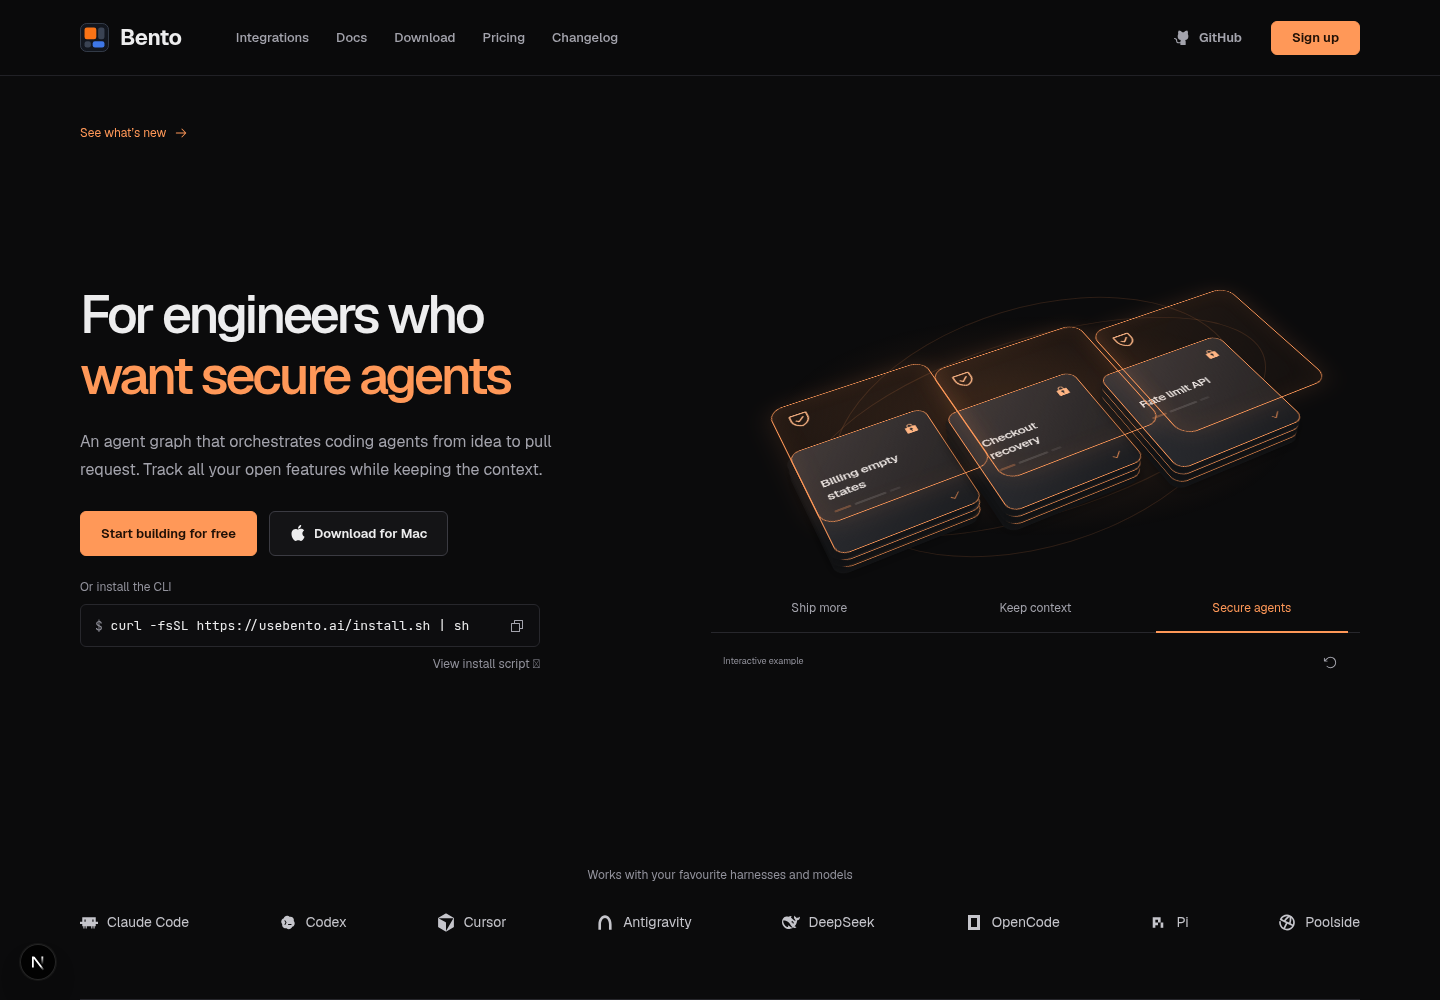
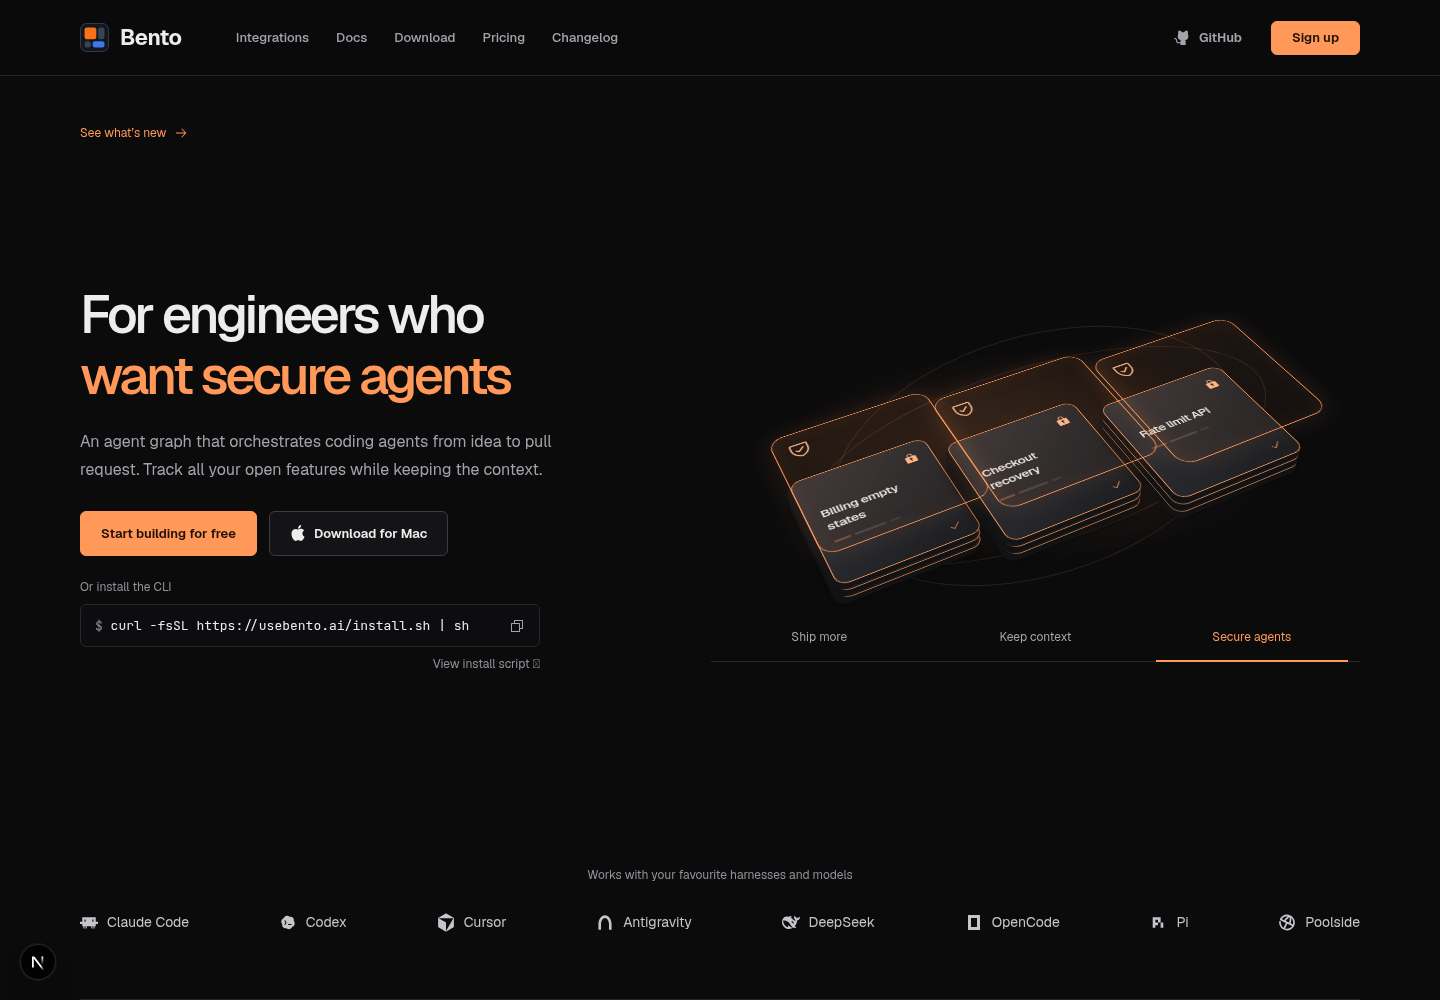
Isolate the context card and remove hero footer controls

diff --git a/app/marketing.css b/app/marketing.css
@@ -817,10 +817,9 @@ body:has(.marketing-page) {
 .pipeline-stop-2 { transform: translate3d(167px, 64px, -40px); }
 .pipeline-stop span { position: absolute; bottom: -27px; left: 0; width: 100%; text-align: center; font: 11px var(--font-jetbrains-mono), monospace; color: var(--brand); }
 .pipeline-stop:not(:last-child)::after { content: "→"; position: absolute; left: calc(100% + 1px); top: 58%; color: var(--brand); font-size: 18px; }
-.hero-story-demo:not([data-chapter="2"]) .feature-cluster-0, .hero-story-demo:not([data-chapter="2"]) .feature-cluster-2 { opacity: 0; pointer-events: none; }
 .hero-story-demo[data-chapter="0"] .feature-cluster-1 { transform: translate3d(167px, 64px, 12px); }
 /* Context: artifacts originate from a single card and fan out beside it. */
-.hero-story-demo[data-chapter="1"] .feature-cluster-1 { transform: translate3d(-115px, 0, 25px); }
+.hero-story-demo[data-chapter="1"] .feature-cluster-1 { transform: translate3d(-115px, 0, 25px); transition: none; }
 .feature-artifacts { transform-style: preserve-3d; opacity: 0; transition: opacity 500ms; }
 .hero-story-demo[data-chapter="1"] .feature-artifacts { opacity: 1; }
 .feature-artifact { position: absolute; left: -62px; top: -43px; width: 124px; height: 86px; padding: 13px; border: 1px solid #896044; border-radius: 8px; background: linear-gradient(135deg, #35302a, #222126); color: #ededee; box-shadow: -2px 3px 0 #141416, -4px 6px 0 #141416, -8px 12px 20px #0003; transform-style: preserve-3d; }
@@ -841,7 +840,7 @@ body:has(.marketing-page) {
 .hero-story-demo[data-chapter="2"] .feature-lock { display: block; }
 @media (prefers-reduced-motion: no-preference) {
   .hero-story-demo[data-chapter="0"] .feature-cluster-1 { animation: feature-ship 6s cubic-bezier(.45,0,.2,1) infinite; }
-  .hero-story-demo[data-chapter="1"] .feature-artifact { animation: artifact-spawn 6s cubic-bezier(.22,1,.36,1) infinite both; }
+  .hero-story-demo[data-chapter="1"] .feature-artifact { animation: artifact-spawn 1.4s cubic-bezier(.22,1,.36,1) both; }
   .hero-story-demo[data-chapter="1"] .feature-artifact-0 { --artifact-x: 108px; --artifact-y: -105px; }
   .hero-story-demo[data-chapter="1"] .feature-artifact-1 { --artifact-x: 125px; --artifact-y: 0px; animation-delay: .35s; }
   .hero-story-demo[data-chapter="1"] .feature-artifact-2 { --artifact-x: 142px; --artifact-y: 105px; animation-delay: .7s; }
@@ -857,8 +856,7 @@ body:has(.marketing-page) {
   }
   @keyframes artifact-spawn {
     0%, 8% { transform: translate3d(-115px, 0, 30px) scale(.5); opacity: 0; }
-    35%, 88% { transform: translate3d(var(--artifact-x), var(--artifact-y), 40px); opacity: 1; }
-    100% { transform: translate3d(var(--artifact-x), var(--artifact-y), 50px); opacity: 0; }
+    100% { transform: translate3d(var(--artifact-x), var(--artifact-y), 40px); opacity: 1; }
   }
   @keyframes feature-secure {
     0%, 10% { transform: translateZ(70px); opacity: 0; }
@@ -872,8 +870,6 @@ body:has(.marketing-page) {
 .story-chapters button { position: relative; display: flex; align-items: center; justify-content: center; gap: 8px; padding: 15px 4px; color: var(--text-muted); background: none; border: 0; font: inherit; cursor: pointer; }
 .story-chapters button[aria-pressed="true"] { color: var(--brand); }
 .story-chapters button[aria-pressed="true"]::after { content: ""; position: absolute; height: 2px; bottom: -1px; left: 12px; right: 12px; background: var(--brand); }
-.story-footer { display: flex; align-items: center; justify-content: space-between; gap: 10px; padding: 12px; color: var(--text-faint); font-size: 9px; }
-.story-footer button { display: flex; align-items: center; gap: 6px; padding: 10px; color: var(--text-muted); background: none; border: 0; font: inherit; cursor: pointer; }
 .hero-story-demo button:focus-visible { outline: 2px solid var(--brand); outline-offset: 3px; }
 @media (max-width: 1100px) and (min-width: 801px), (max-width: 520px) {
   .feature-world { transform: scale(.73) rotateX(46deg) rotateZ(-28deg); }

diff --git a/e2e/marketing.spec.ts b/e2e/marketing.spec.ts
@@ -233,27 +233,25 @@ for (const width of [375, 1440]) {
   test(`hero cycles without moving the CTAs at ${width}px`, async ({ page }) => {
     await page.setViewportSize({ width, height: 1000 });
     await page.emulateMedia({ reducedMotion: "no-preference" });
-    await page.clock.install();
+    test.setTimeout(45000);
     await page.goto("/");
-    await page.getByRole("button", { name: /Keep context/ }).click();
-    await page.getByRole("button", { name: "Replay story" }).click();
     const active = page.locator('.hero-ending[data-active="true"]');
     await expect(active).toHaveText("ship a lot of PRs");
+    await page.evaluate(() => document.fonts.ready);
     const cta = await page.locator(".hero-actions").boundingBox();
     for (const phrase of ["want context on changes", "want secure agents", "ship a lot of PRs"]) {
-      await page.clock.fastForward(6000);
-      await expect(active).toHaveText(phrase);
+      await expect(active).toHaveText(phrase, { timeout: 10000 });
       await expect(page.locator('.story-scene[data-active="true"]')).toHaveAttribute("aria-label", phrase.includes("context") ? "Keep context" : phrase.includes("secure") ? "Secure agents" : "Ship more");
       expect((await page.locator(".hero-actions").boundingBox())!.y).toBe(cta!.y);
       expect(await page.evaluate(() => document.documentElement.scrollWidth <= innerWidth)).toBe(true);
     }
     await page.emulateMedia({ reducedMotion: "reduce" });
-    await page.clock.fastForward(8000);
+    await page.waitForTimeout(6500);
     await expect(active).toHaveText("ship a lot of PRs");
   });
 }
 
-test("hero story can be selected and replayed", async ({ page }) => {
+test("hero scenes can be selected and held", async ({ page }) => {
   await page.emulateMedia({ reducedMotion: "no-preference" });
   await page.clock.install();
   await page.goto("/");
@@ -263,10 +261,12 @@ test("hero story can be selected and replayed", async ({ page }) => {
   await expect(page.locator(".hero-story-demo")).toHaveAttribute("data-chapter", "1");
   await page.getByRole("button", { name: "Secure agents", exact: true }).click();
   await expect(page.locator(".hero-story-demo")).toHaveAttribute("data-chapter", "2");
-  await page.getByRole("button", { name: "Replay story" }).click();
+  await page.getByRole("button", { name: "Ship more", exact: true }).click();
   await expect(page.locator('.hero-ending[data-active="true"]')).toHaveText("ship a lot of PRs");
-  await page.clock.fastForward(6000);
-  await expect(page.locator(".hero-story-demo")).toHaveAttribute("data-chapter", "1");
+  await page.clock.fastForward(18000);
+  await expect(page.locator(".hero-story-demo")).toHaveAttribute("data-chapter", "0");
+  await expect(page.getByRole("button", { name: "Replay story" })).toHaveCount(0);
+  await expect(page.getByText("Interactive example", { exact: true })).toHaveCount(0);
 });
 
 test("reduced motion keeps the story still and supports keyboard exploration", async ({ page }) => {
@@ -305,6 +305,10 @@ test("3D scenes move a feature, spawn artifacts, and secure every card", async (
   expect(await xAt(4800)).toBeGreaterThan(await xAt(300));
 
   await page.getByRole("button", { name: "Keep context", exact: true }).click();
+  await expect(page.locator(".feature-cluster")).toHaveCount(1);
+  await expect(page.locator(".feature-cluster .feature-slab")).toHaveCount(1);
+  await expect(page.locator(".feature-pipeline")).toHaveCount(0);
+  await expect(movingCard).toHaveCSS("animation-name", "none");
   const artifacts = page.locator(".feature-artifact");
   await expect(artifacts).toHaveCount(3);
   const destinations = await artifacts.evaluateAll(elements => elements.map(element => {

diff --git a/components/marketing/hero-story-demo.tsx b/components/marketing/hero-story-demo.tsx
@@ -1,30 +1,30 @@
 "use client";
 
-import { ArrowCounterClockwise, Check, FileText, GitBranch, LockKey, ShieldCheck } from "@phosphor-icons/react";
+import { Check, FileText, GitBranch, LockKey, ShieldCheck } from "@phosphor-icons/react";
 import { useHeroStory } from "./hero-story";
 
 const chapters = ["Ship more", "Keep context", "Secure agents"];
 const features = ["Billing empty states", "Checkout recovery", "Rate limit API"];
 
 export function HeroStoryDemo() {
-  const { active, select, replay } = useHeroStory();
+  const { active, select } = useHeroStory();
   return <div className="m-demo hero-visual hero-story-demo" id="product" data-chapter={active}>
 
     <div className="feature-stage" aria-hidden="true">
       <div className="feature-orbit" />
-      <div className="feature-world">
-        <div className="feature-pipeline">
+      <div className="feature-world" key={active}>
+        {active === 0 && <div className="feature-pipeline">
           {["Plan", "Build", "PR"].map((stage, index) => <div className={`pipeline-stop pipeline-stop-${index}`} key={stage}><span>{stage}</span></div>)}
-        </div>
-        {features.map((feature, index) => <div className={`feature-cluster feature-cluster-${index}`} key={feature}>
-          <div className="feature-slab feature-slab-base"><FileText size={18} /></div>
-          <div className="feature-slab feature-slab-middle"><GitBranch size={18} /></div>
+        </div>}
+        {features.map((feature, index) => (active === 2 || index === 1) && <div className={`feature-cluster feature-cluster-${index}`} key={feature}>
+          {active !== 1 && <div className="feature-slab feature-slab-base"><FileText size={18} /></div>}
+          {active !== 1 && <div className="feature-slab feature-slab-middle"><GitBranch size={18} /></div>}
           <div className="feature-slab feature-slab-top"><div className="feature-card-top"><i /><LockKey className="feature-lock" size={17} weight="fill" /></div><strong>{feature}</strong><div className="feature-card-lines"><i /><i /><i /></div><div className="feature-card-bottom"><Check size={14} /></div></div>
-          <div className="feature-scan"><ShieldCheck size={26} /></div>
+          {active === 2 && <div className="feature-scan"><ShieldCheck size={26} /></div>}
         </div>)}
-        <div className="feature-artifacts">
+        {active === 1 && <div className="feature-artifacts">
           {["plan.md", "decisions.md", "review.md"].map((file, index) => <div className={`feature-artifact feature-artifact-${index}`} key={file}><FileText size={22} /><strong>{file}</strong><div className="feature-card-lines"><i /><i /></div></div>)}
-        </div>
+        </div>}
       </div>
 
     </div>
@@ -38,6 +38,5 @@ export function HeroStoryDemo() {
         "Orange security planes descend over all three feature cards, locking each agent workspace.",
       ].map((description, index) => <div className="story-scene" key={description} data-active={active === index} hidden={active !== index} aria-label={chapters[index]}>{description}</div>)}
     </div>
-    <div className="story-footer"><span>Interactive example</span><button type="button" aria-label="Replay story" title="Replay story" onClick={replay}><ArrowCounterClockwise size={15} /></button></div>
   </div>;
 }

diff --git a/components/marketing/hero-story.tsx b/components/marketing/hero-story.tsx
@@ -2,7 +2,7 @@
 
 import { createContext, useContext, useEffect, useState, type ReactNode } from "react";
 
-const HeroStoryContext = createContext<{ active: number; selected: boolean; select: (index: number) => void; replay: () => void }>({ active: 0, selected: false, select: () => {}, replay: () => {} });
+const HeroStoryContext = createContext<{ active: number; selected: boolean; select: (index: number) => void }>({ active: 0, selected: false, select: () => {} });
 export const useHeroStory = () => useContext(HeroStoryContext);
 
 export function HeroStory({ children }: { children: ReactNode }) {
@@ -25,7 +25,7 @@ export function HeroStory({ children }: { children: ReactNode }) {
       document.removeEventListener("visibilitychange", sync);
     };
   }, [selected]);
-  return <HeroStoryContext.Provider value={{ active, selected, select: index => { setActive(index); setSelected(true); }, replay: () => { setActive(0); setSelected(false); } }}>
+  return <HeroStoryContext.Provider value={{ active, selected, select: index => { setActive(index); setSelected(true); } }}>
     <div className="m-hero-heading">{children}</div>
   </HeroStoryContext.Provider>;
 }
